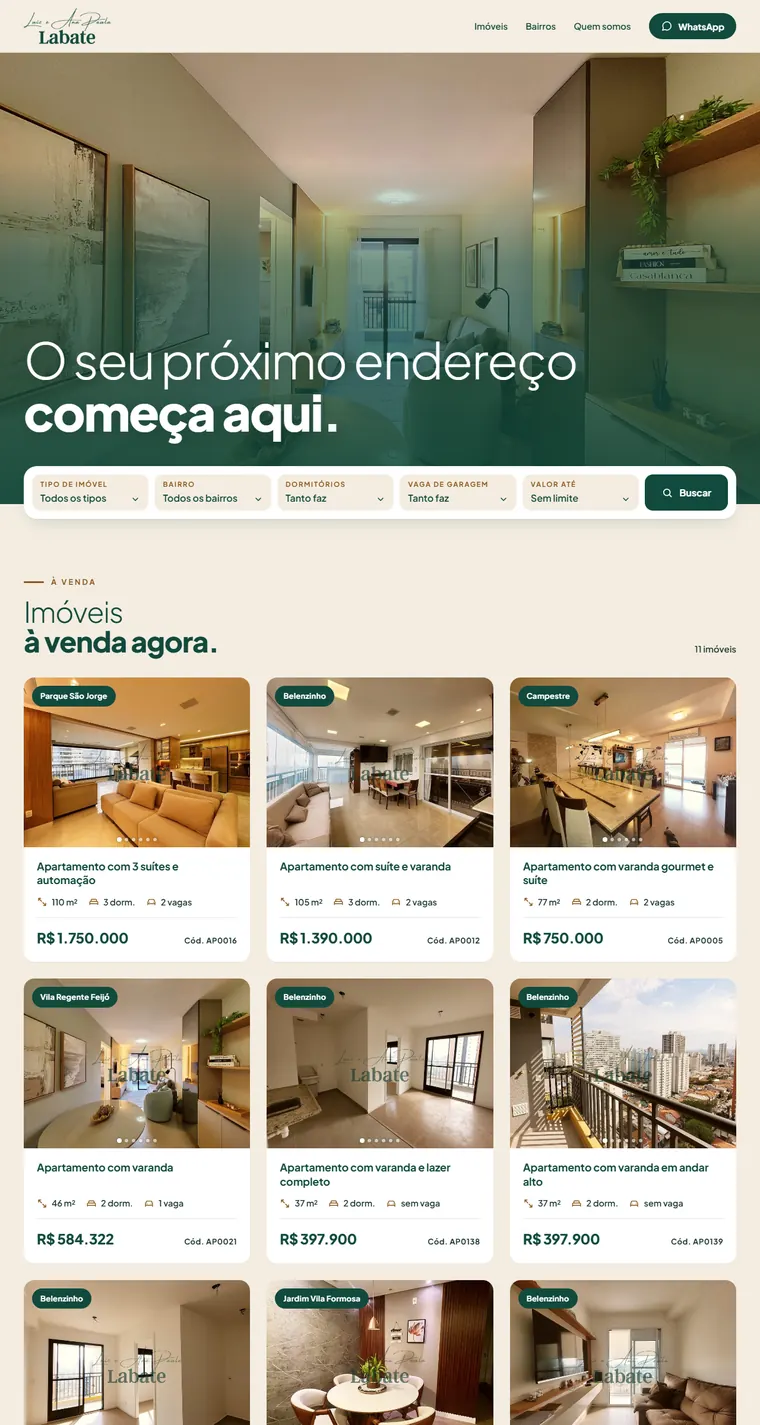
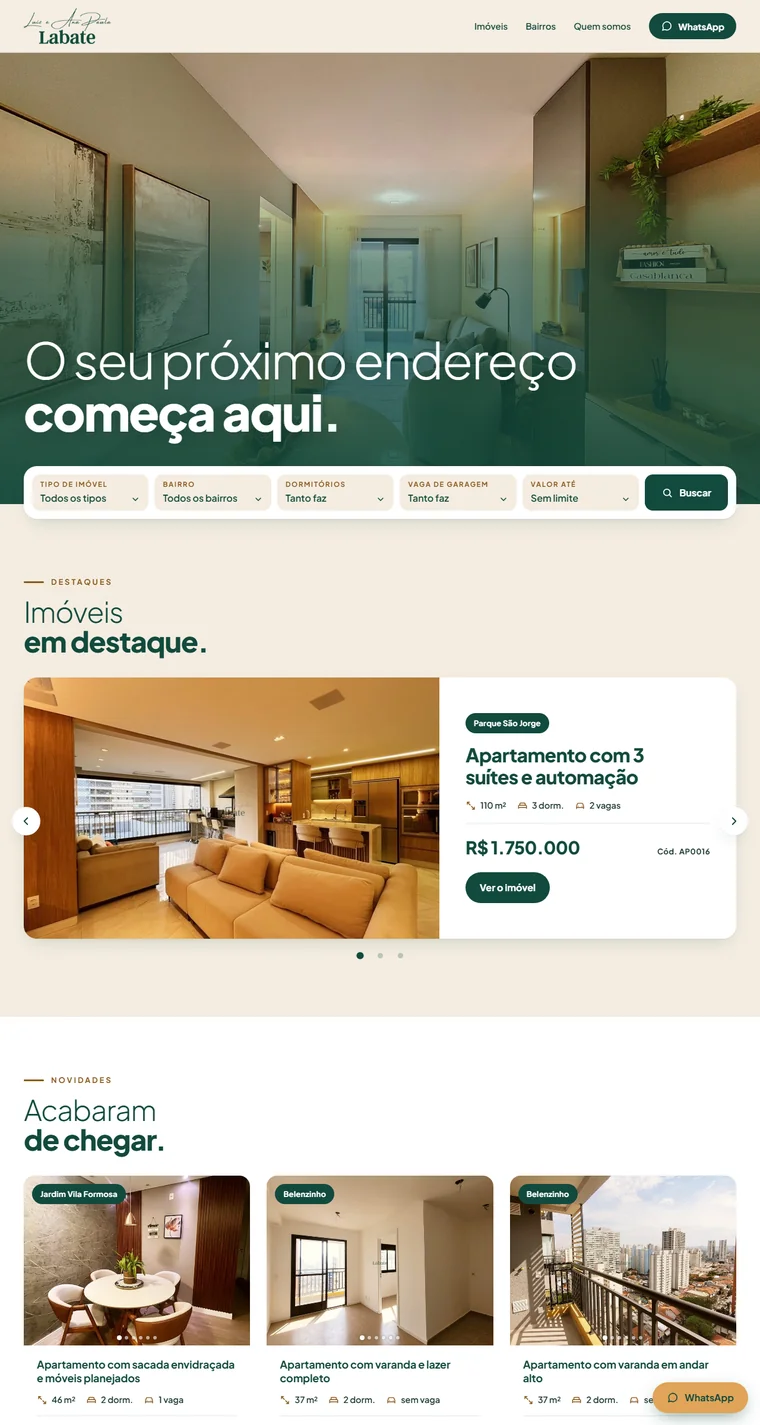
Captura nova do site da Labate na abertura
- assets/trabalhos/labate-home.webp refeita em 12/11/2026 a partir do site no ar (seções Destaques e Novidades); mesmas medidas, 760 × 1425, 98 KB.
- src com ?v=2 para não servir a captura antiga do cache.

diff --git a/index.html b/index.html
@@ -45,7 +45,7 @@
     <figure class="vitrine">
       <div class="janela">
         <div class="janela-barra" aria-hidden="true"><i></i><i></i><i></i><span>labateimoveis.com.br</span></div>
-        <div class="janela-rolagem"><img src="/assets/trabalhos/labate-home.webp" alt="Página inicial do site labateimoveis.com.br, com busca de imóveis e cartões de apartamentos à venda" width="760" height="1425"></div>
+        <div class="janela-rolagem"><img src="/assets/trabalhos/labate-home.webp?v=2" alt="Página inicial do site labateimoveis.com.br, com busca de imóveis e cartões de apartamentos à venda" width="760" height="1425"></div>
       </div>
       <figcaption>Site sob medida, gerado a partir do cadastro de imóveis.</figcaption>
     </figure>
